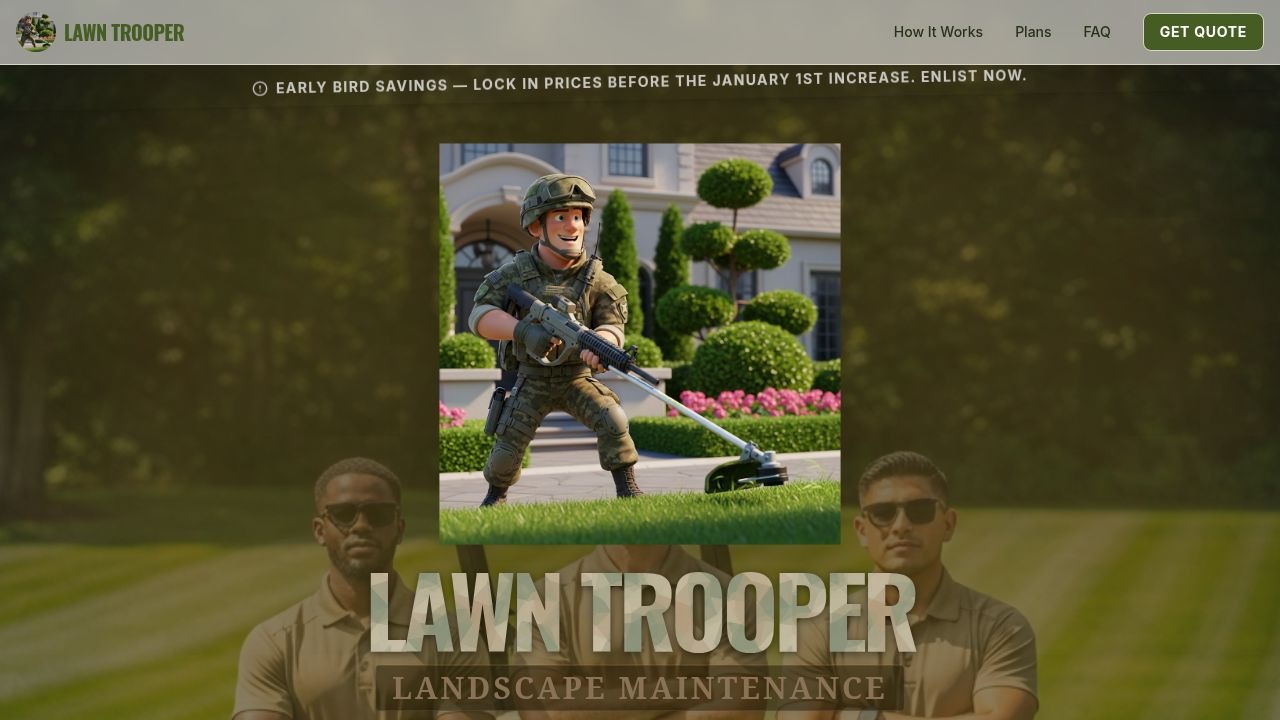
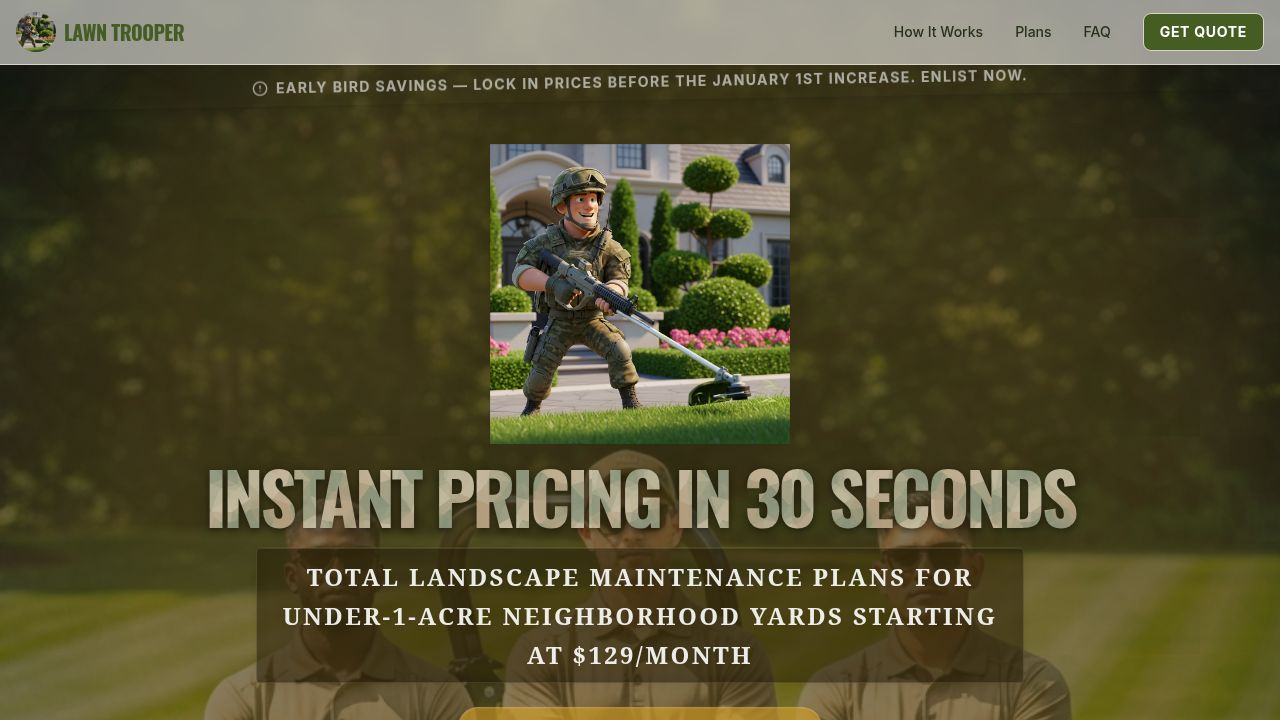
Update website to offer instant pricing and simplify quote process
Refactor landing page to remove acreage math, introduce two-step quote questions, and update hero section copy.

Replit-Commit-Author: Agent
Replit-Commit-Session-Id: 98804751-9cd9-4bf8-8eb9-a989a7d65f20
Replit-Commit-Checkpoint-Type: full_checkpoint
Replit-Commit-Event-Id: 9aecf7fc-b097-48f7-bf13-a18187fa955b
Replit-Commit-Screenshot-Url: https://storage.googleapis.com/screenshot-production-us-central1/272d6f3a-6d6e-4d82-9048-783487746b88/98804751-9cd9-4bf8-8eb9-a989a7d65f20/IJbg5je
Replit-Helium-Checkpoint-Created: true

diff --git a/client/src/pages/home.tsx b/client/src/pages/home.tsx
@@ -226,30 +226,32 @@ export default function LandingPage() {
   const selectedYardSize = form.watch("yardSize");
   const selectedAddOns = form.watch("addOns");
 
+  // State for new questions
+  const [isUnderOneAcre, setIsUnderOneAcre] = useState<string>("yes");
+  const [maintenanceFreq, setMaintenanceFreq] = useState<string>("weekly");
+
   // Calculate Price Effect
   useEffect(() => {
-    if (selectedPlan && selectedYardSize) {
+    if (selectedPlan) {
       const planData = PRICING[selectedPlan as keyof typeof PRICING];
       
-      const acres = Number(selectedYardSize);
-      
-      if (planData && !isNaN(acres) && acres > 0) {
-        // Logic: Base price covers up to 1 acre.
-        // Above 1 acre requires custom quote.
-        if (acres > 1.0) {
-          setEstimatedPrice(null); // Indicates custom quote needed
-        } else {
-           // Logic: Base price covers up to 1/3 acre.
-           // Apply a 25% price increase for each additional 1/3 acre.
-           // NOTE: Prompt says "Transparent pricing based on your yard size" but keeps the base logic undefined?
-           // I'll keep the existing logic but cap instant quote at 1 acre.
-           const incrementMultiplier = Math.max(0, Math.ceil(acres / (1/3)) - 1);
-           const price = planData.base * (1 + (0.25 * incrementMultiplier));
-           setEstimatedPrice(price);
-        }
+      // If user says "Yes" (Under 1 Acre), we show the base price.
+      // We removed the acreage math as requested.
+      if (planData && isUnderOneAcre === "yes") {
+         setEstimatedPrice(planData.base);
+      } else {
+         // If not under 1 acre or not sure, we might hide price or show "Starting at"
+         // For now, if they say 'no' or 'not sure', we can reset or keep showing base with a disclaimer
+         // But prompt says "Total landscape maintenance plans for under-1-acre neighborhood yards starting at $129/month"
+         // Let's assume standard pricing for standard yards.
+         if (isUnderOneAcre === "no" || isUnderOneAcre === "unsure") {
+             setEstimatedPrice(null); // Custom quote needed
+         } else {
+             setEstimatedPrice(planData.base);
+         }
       }
     }
-  }, [selectedPlan, selectedYardSize]);
+  }, [selectedPlan, isUnderOneAcre]);
 
   // Calculate counts
   const calculateCounts = (currentAddOns: string[]) => {
@@ -458,10 +460,10 @@ export default function LandingPage() {
             className="mb-8 relative w-full max-w-4xl"
           >
             <div className="absolute inset-0 bg-accent/20 blur-3xl rounded-full transform scale-150"></div>
-            <img src={mascotLogo} alt="Lawn Trooper" className="w-full object-contain relative z-10 drop-shadow-2xl max-h-[400px]" />
+            <img src={mascotLogo} alt="Lawn Trooper" className="w-full object-contain relative z-10 drop-shadow-2xl max-h-[300px] mb-4" />
             
             <div className="mt-4 relative z-20">
-              <h1 className="text-6xl md:text-8xl font-black tracking-tighter uppercase mb-0 leading-none" 
+              <h1 className="text-5xl md:text-7xl font-black tracking-tighter uppercase mb-2 leading-none" 
                   style={{ 
                     backgroundImage: `url(${camoPattern})`, 
                     backgroundSize: '200px',
@@ -469,11 +471,26 @@ export default function LandingPage() {
                     WebkitTextFillColor: 'transparent',
                     filter: 'drop-shadow(0px 2px 4px rgba(0,0,0,0.5))'
                   }}>
-                Lawn Trooper
+                Instant Pricing in 30 Seconds
               </h1>
-              <h2 className="text-2xl md:text-3xl font-serif font-bold text-[#8B7355] uppercase tracking-widest mt-2 drop-shadow-md bg-black/40 px-4 py-1 rounded inline-block backdrop-blur-sm border border-[#8B7355]/30">
-                Landscape Maintenance
+              <h2 className="text-xl md:text-2xl font-serif font-bold text-white/90 uppercase tracking-widest mt-2 drop-shadow-md bg-black/40 px-4 py-2 rounded inline-block backdrop-blur-sm border border-[#8B7355]/30 max-w-3xl leading-relaxed">
+                Total landscape maintenance plans for under-1-acre neighborhood yards starting at $129/month
               </h2>
+            </div>
+            
+            <div className="mt-6 flex flex-col items-center gap-4">
+               <div className="inline-block bg-accent text-accent-foreground font-bold px-4 py-1.5 rounded-full animate-pulse shadow-lg border-2 border-white/20">
+                 Next 5 days only: get up to 3 months FREE
+               </div>
+               
+               <div className="flex flex-col sm:flex-row gap-4 mt-2 w-full max-w-md mx-auto">
+                 <Button onClick={() => scrollToSection('quote')} className="flex-1 bg-primary hover:bg-primary/90 text-white font-bold uppercase tracking-wider py-6 text-lg shadow-xl border-2 border-white/10">
+                   Get My Instant Quote
+                 </Button>
+                 <Button onClick={() => scrollToSection('plans')} variant="outline" className="flex-1 border-white/20 text-white hover:bg-white/10 font-bold uppercase tracking-wider py-6 text-lg bg-black/40 backdrop-blur-sm">
+                   See What’s Included
+                 </Button>
+               </div>
             </div>
           </motion.div>
 
@@ -1055,44 +1072,67 @@ export default function LandingPage() {
                   </div>
                 </div>
 
-                {/* 2. Yard Size Selection (Input) */}
+                {/* 2. Instant Quote Questions */}
                 <div className="space-y-6">
-                  <h3 className="text-lg font-bold font-heading uppercase text-primary border-b border-border pb-2">2. Confirm Lot Size</h3>
-                   <FormField
-                    control={form.control}
-                    name="yardSize"
-                    render={({ field }) => (
-                      <FormItem className="space-y-3">
-                        <FormLabel className="text-base font-bold text-foreground">Approximate Lot Size (Acres)</FormLabel>
-                        <FormControl>
-                          <div className="flex items-center gap-2">
-                             <Input 
-                               type="number" 
-                               placeholder="e.g. 0.25" 
-                               step="0.01" 
-                               min="0.01"
-                               className="text-lg h-12"
-                               {...field}
-                               onChange={(e) => field.onChange(e.target.value)}
-                             />
-                             <span className="text-muted-foreground font-bold">Acres</span>
-                          </div>
-                        </FormControl>
-                        <FormDescription>
-                           Please enter your approximate lot size. The exact lot size will be measured in person at the consultation.
-                        </FormDescription>
-                        <FormMessage />
-                      </FormItem>
-                    )}
-                  />
-                  <p className="text-xs text-muted-foreground">
-                    *Double-checked during consultation. We can do a video walk-through to finalize custom details!
-                  </p>
+                  <h3 className="text-lg font-bold font-heading uppercase text-primary border-b border-border pb-2">2. Property Details</h3>
+                   
+                   {/* Question 1: Under 1 Acre? */}
+                   <div className="space-y-3">
+                     <Label className="text-base font-bold text-foreground">Is your property under 1 acre?</Label>
+                     <RadioGroup 
+                        value={isUnderOneAcre} 
+                        onValueChange={(val) => {
+                            setIsUnderOneAcre(val);
+                            // If they confirm yes, we can set a valid dummy yardSize for form validation if needed
+                            if (val === 'yes') form.setValue('yardSize', 0.5); 
+                        }}
+                        className="flex gap-4"
+                     >
+                        <div className="flex items-center space-x-2">
+                          <RadioGroupItem value="yes" id="acre-yes" />
+                          <Label htmlFor="acre-yes" className="font-medium cursor-pointer">Yes</Label>
+                        </div>
+                        <div className="flex items-center space-x-2">
+                          <RadioGroupItem value="unsure" id="acre-unsure" />
+                          <Label htmlFor="acre-unsure" className="font-medium cursor-pointer">Not sure (we can help)</Label>
+                        </div>
+                     </RadioGroup>
+                   </div>
+
+                   {/* Question 2: Maintenance Frequency */}
+                   <div className="space-y-3">
+                     <Label className="text-base font-bold text-foreground">Maintenance Frequency</Label>
+                     <RadioGroup 
+                        value={maintenanceFreq} 
+                        onValueChange={setMaintenanceFreq}
+                        className="flex gap-4"
+                     >
+                        <div className="flex items-center space-x-2">
+                          <RadioGroupItem value="weekly" id="freq-weekly" />
+                          <Label htmlFor="freq-weekly" className="font-medium cursor-pointer">Weekly</Label>
+                        </div>
+                        <div className="flex items-center space-x-2">
+                          <RadioGroupItem value="biweekly" id="freq-biweekly" />
+                          <Label htmlFor="freq-biweekly" className="font-medium cursor-pointer">Bi-Weekly</Label>
+                        </div>
+                     </RadioGroup>
+                   </div>
+
+                   {/* Hidden numeric input to satisfy schema if needed, or we just rely on default */}
+                   <div className="hidden">
+                     <FormField
+                      control={form.control}
+                      name="yardSize"
+                      render={({ field }) => (
+                        <Input type="number" {...field} />
+                      )}
+                    />
+                   </div>
                 </div>
 
                 {/* 3. Plan Selection */}
                 <div className="space-y-6">
-                  <h3 className="text-lg font-bold font-heading uppercase text-primary border-b border-border pb-2">3. Choose Your Plan</h3>
+                  <h3 className="text-lg font-bold font-heading uppercase text-primary border-b border-border pb-2">3. Pick Your Style</h3>
                   
                   <FormField
                     control={form.control}
@@ -1113,7 +1153,7 @@ export default function LandingPage() {
                               >
                                 <span className="mb-2 text-lg font-bold">Basic Patrol</span>
                                 <span className="text-sm text-center text-muted-foreground">Weekly mowing & edging. 2 Basic add-ons.</span>
-                                <span className="mt-2 text-sm font-bold text-primary">Base: $129/mo</span>
+                                <span className="mt-2 text-sm font-bold text-primary">Starts at $129/mo</span>
                               </Label>
                             </div>
                             
@@ -1125,7 +1165,7 @@ export default function LandingPage() {
                               >
                                 <span className="mb-2 text-lg font-bold">Premium Command</span>
                                 <span className="text-sm text-center text-muted-foreground">Plus weed control & beds. 2 Basic + 3 Premium Add-ons.</span>
-                                <span className="mt-2 text-sm font-bold text-primary">Base: $199/mo</span>
+                                <span className="mt-2 text-sm font-bold text-primary">Starts at $199/mo</span>
                               </Label>
                             </div>
                             
@@ -1140,7 +1180,7 @@ export default function LandingPage() {
                                 </div>
                                 <span className="mb-2 text-lg font-bold flex items-center gap-1 mt-2">Executive <Star className="w-3 h-3 fill-accent text-accent" /></span>
                                 <span className="text-sm text-center text-muted-foreground">Weekly Main. 6 Weed Apps. 1 Basic + 5 Premium Add-ons.</span>
-                                <span className="mt-2 text-sm font-bold text-primary">Base: $299/mo</span>
+                                <span className="mt-2 text-sm font-bold text-primary">Starts at $299/mo</span>
                               </Label>
                             </div>
                           </RadioGroup>
@@ -1593,6 +1633,10 @@ export default function LandingPage() {
           <Accordion type="single" collapsible className="w-full">
             {[
               {
+                q: "Why are you lowering prices after 25+ years?",
+                a: "Short answer: AI. We use AI to cut wasted time, improve routing and scheduling, and reduce overhead. Most companies keep the savings — we pass them to you. Same quality. Smarter systems. Better prices."
+              },
+              {
                 q: "Do I have to sign a contract?",
                 a: "We offer an annual subscription service designed to keep your property pristine year-round. As a thank you for your loyalty, you receive your free months after completing the full year term. Month-to-month options are also available."
               },
@@ -1621,6 +1665,19 @@ export default function LandingPage() {
               </AccordionItem>
             ))}
           </Accordion>
+        </div>
+      </section>
+
+      {/* Referral Program */}
+      <section className="py-16 bg-accent text-accent-foreground text-center">
+        <div className="container mx-auto px-4">
+           <div className="max-w-2xl mx-auto">
+             <h2 className="text-3xl font-heading font-bold mb-4">Excellent Referral Program</h2>
+             <p className="text-lg mb-8 opacity-90">Refer a neighbor and get rewarded. Help us build a stronger perimeter.</p>
+             <Button variant="secondary" className="bg-background text-foreground hover:bg-background/90 font-bold px-8 py-6 rounded-full shadow-lg transition-transform hover:scale-105">
+               See Referral Rewards
+             </Button>
+           </div>
         </div>
       </section>
 
